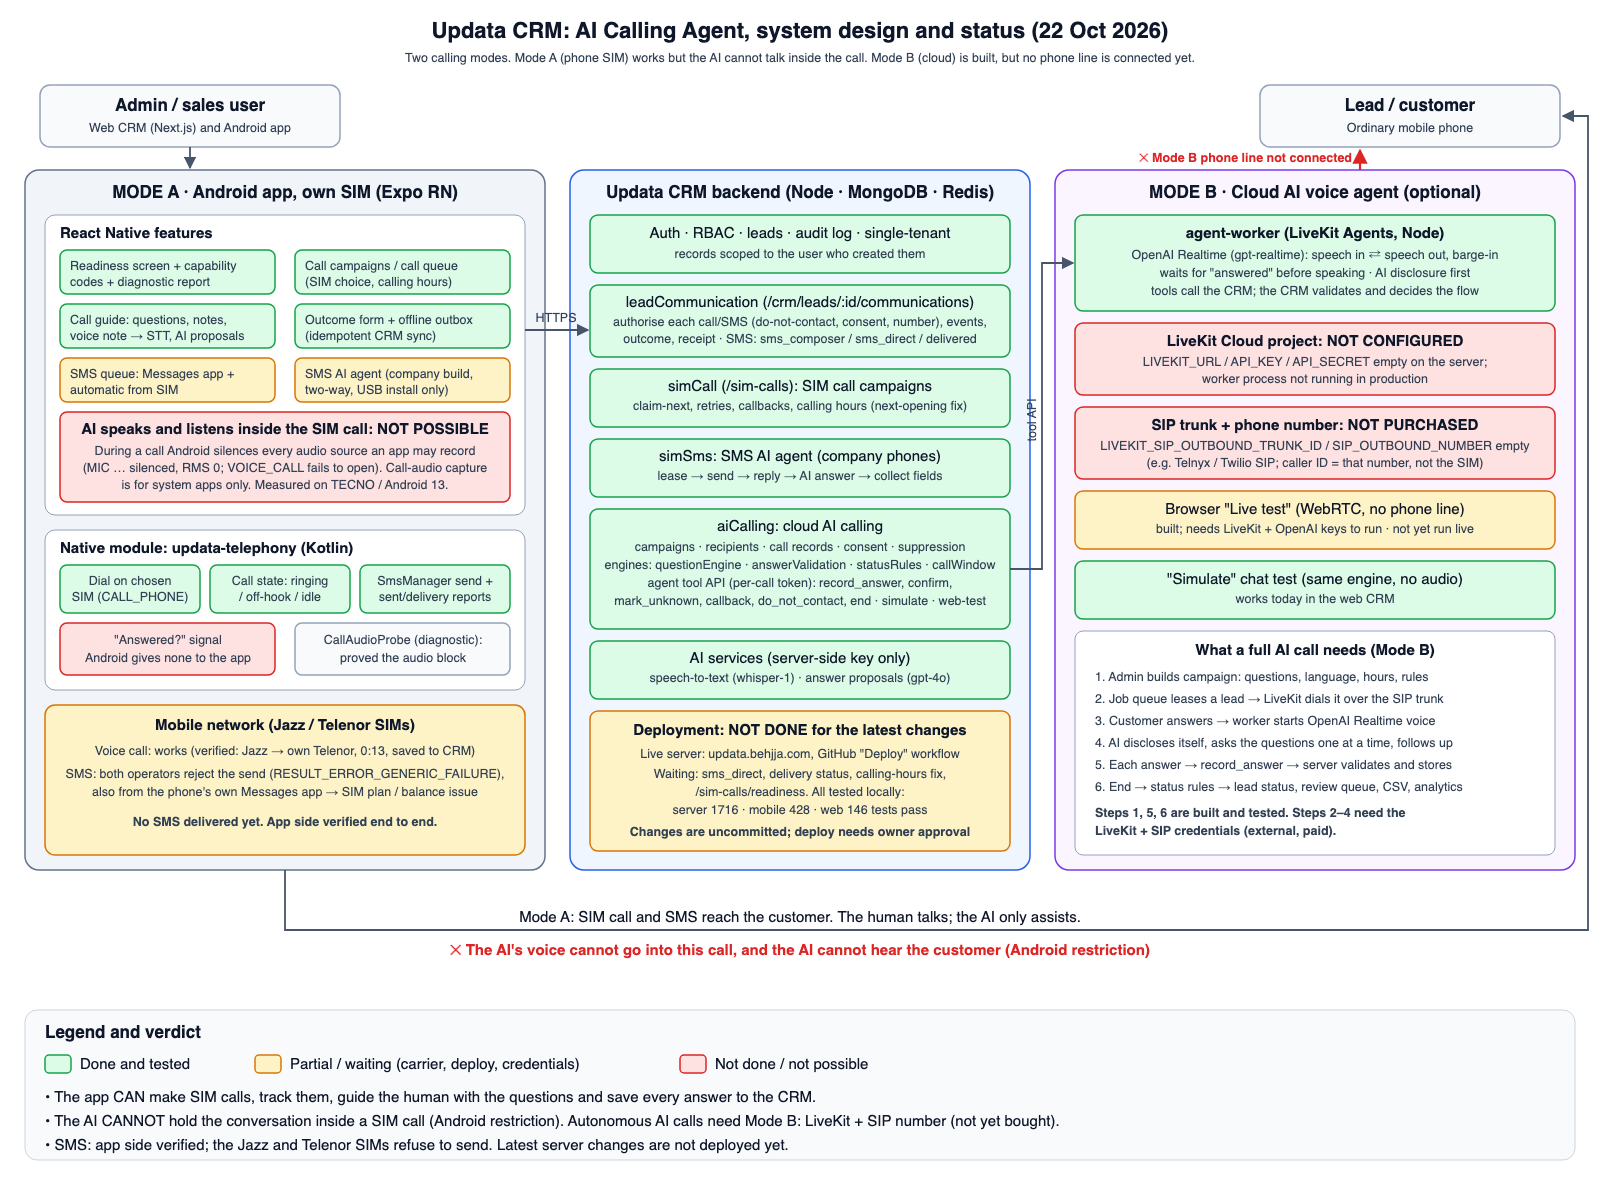
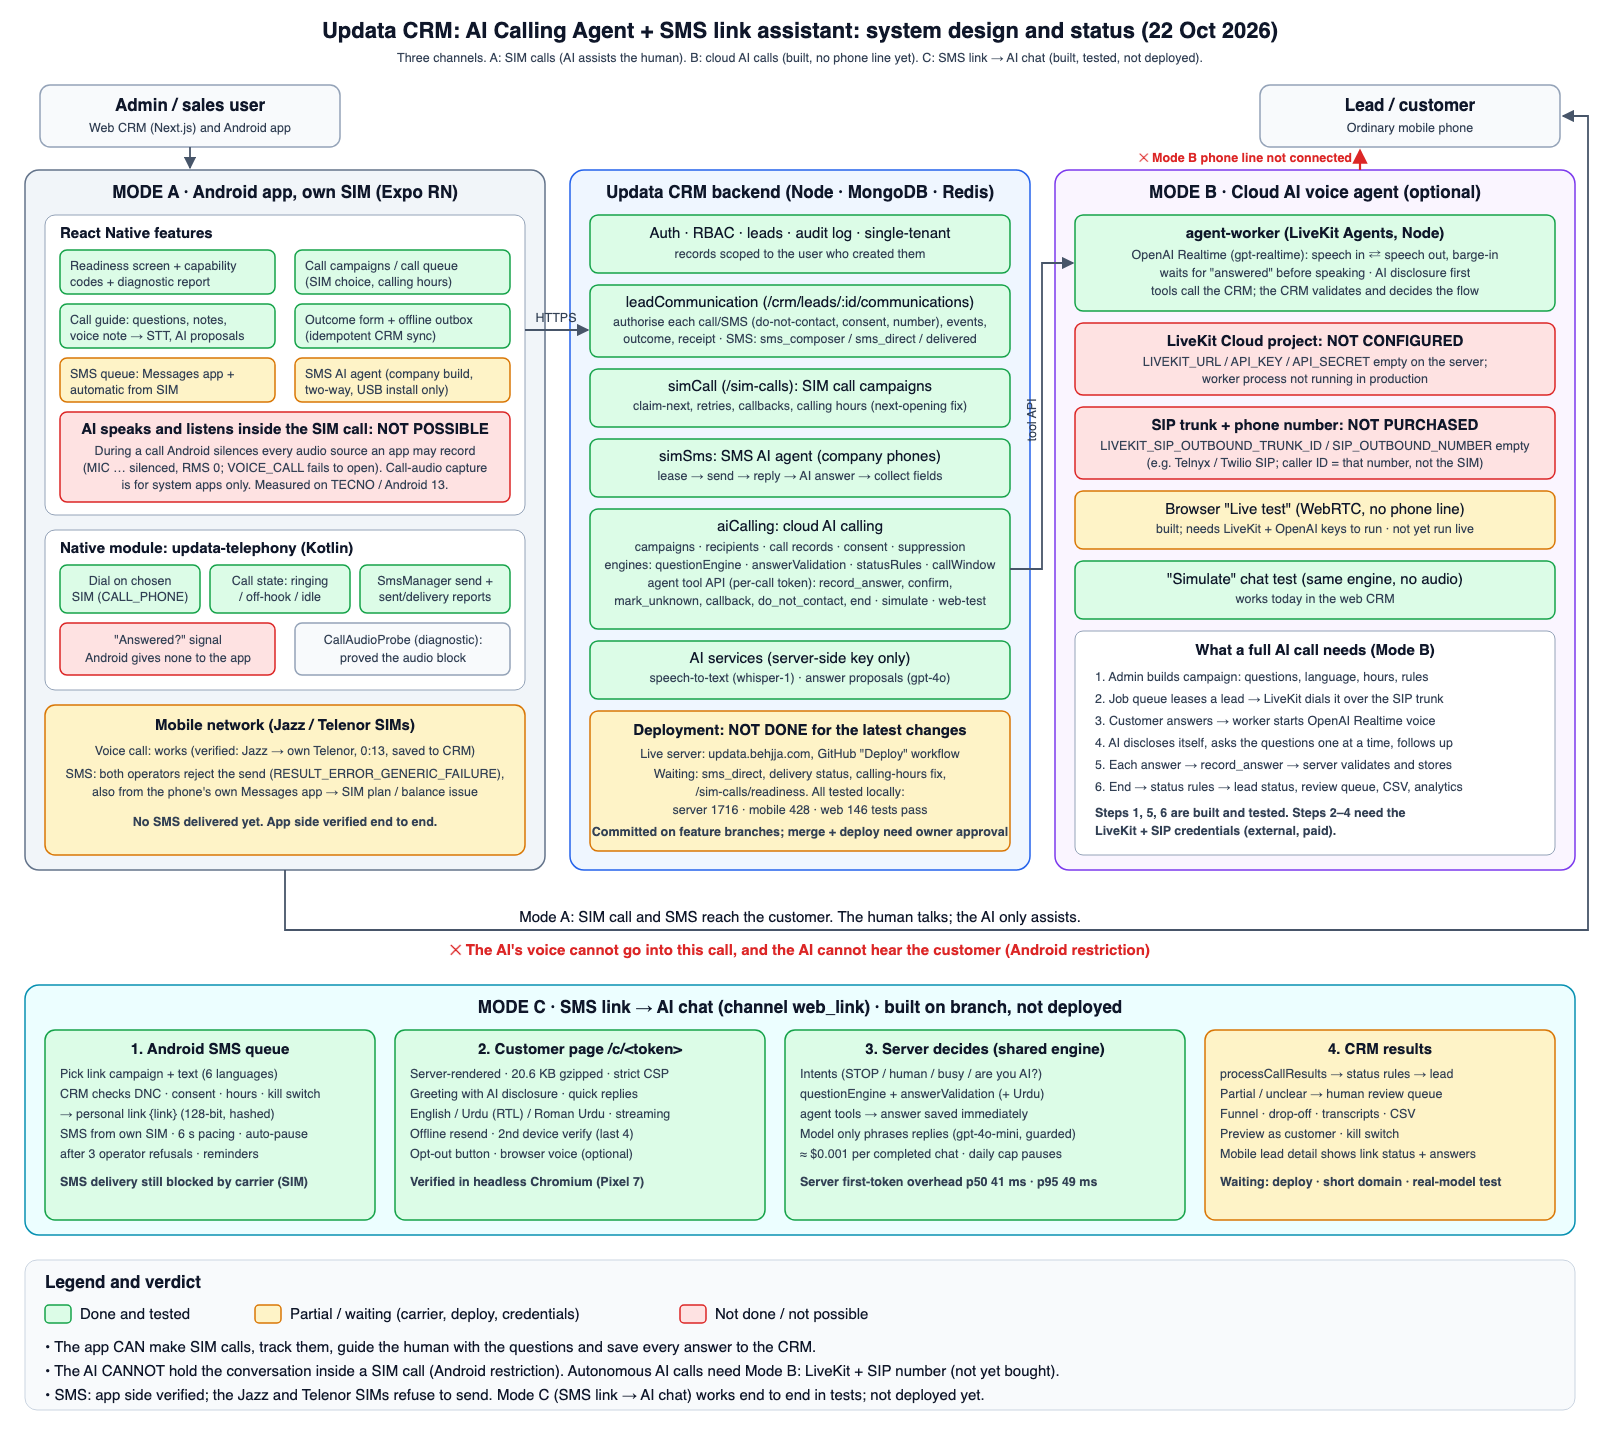
Docs: SMS link assistant guide, updated status report and system design

diff --git a/docs/SMS-LINK-ASSISTANT.md b/docs/SMS-LINK-ASSISTANT.md
@@ -1,0 +1,253 @@
+# SMS Link → AI Assistant
+
+**Audience:** developers and operators of Updata CRM.
+**Status (22 Oct 2026):** built and tested on branch `feature/sms-link-assistant`; **not deployed**. See §9 for what still needs the owner.
+
+A CRM user texts each lead a **personal, secure link** from their own phone (the mobile SMS queue, automatic SIM sending or the Messages app). The link opens a fast, mobile-first chat page. An **AI assistant**:
+- says in its first message that it is an AI;
+- asks the campaign's questions one at a time;
+- answers simple questions from the campaign FAQ;
+- saves every validated answer to the CRM immediately.
+
+It is the **`web_link` channel of the existing AI calling campaigns**. It reuses the same parts as AI calls:
+- questionnaire, question engine, answer validation and status rules;
+- review queue, consent and suppression checks;
+- CSV export and lead outcome handling.
+
+There is no second question or answer system.
+
+![System design](ai-calling-system-design.png)
+
+---
+
+## 1. How it works
+
+```mermaid
+sequenceDiagram
+  participant U as CRM user (Android app)
+  participant CRM as CRM API
+  participant L as Lead's phone
+  participant P as Customer page /c/<token>
+  U->>CRM: authorise SMS (leadCommunication, linkCampaignId)
+  CRM->>CRM: do-not-contact · consent · suppression · sending hours · kill switch
+  CRM-->>U: personal link (token derived from the SMS operation id)
+  U->>L: SMS from own SIM: "Hi Ali, … {link}"
+  U->>CRM: sent / delivered (funnel)
+  L->>P: tap link → server-rendered page, greeting already in the HTML
+  P->>CRM: open (device cookie registered)
+  loop each customer message
+    P->>CRM: message (clientMessageId)
+    CRM->>CRM: deterministic intents → question engine → validator → tools (answer saved)
+    CRM-->>P: reply streamed (NDJSON: token… / replace / done)
+  end
+  CRM->>CRM: submit → processCallResults → status rules → lead status / review / follow-up
+```
+
+### Who decides what
+
+| Decision | Made by | Never by |
+|---|---|---|
+| Opt-out, "talk to a human", "are you human?", "I'm busy" | Deterministic keyword intents (English, Urdu, Roman Urdu), `engine/intents.js` | The model |
+| Which question is next, re-asks, read-back, finish | `aiCalling/engine/questionEngine.js` | The model |
+| Whether an answer is valid (type, format, allowed values) | `aiCalling/engine/answerValidation.js` (Urdu yes/no and "pata nahi" added) | The model. A model may *propose* a value for an unclear reply; it is re-validated, as for SMS replies (`simSms/engine/replyInterpreter.js`) |
+| Lead status, review queue, callbacks, do-not-contact | `processCallResults` + status rules (as for calls). Incomplete sessions → review, never auto-qualified | The model |
+| Wording of ordinary turns (ask, clarify, FAQ answer) | A low-cost text model, **streamed**. Output-checked: no human claims, no instruction leaks, no status claims. Otherwise a fixed text is used | n/a |
+| Wording of safety turns (opt-out, hand-off, read-back, summary, thanks) | Fixed texts (`engine/assistantCopy.js`) | The model |
+
+The model never receives tools or data it could change. The customer's text is wrapped as untrusted data.
+
+### Conversation flow on the page
+
+1. **Greeting** (pre-generated, instant). It contains the lead's name, the company, the reason for contact, "I'm *Ayesha*, an AI assistant from *Company*", the expected time ("about 3 minutes"), and the buttons *Yes, let's start* / *Not now* / *Don't contact me*.
+2. **Questions one at a time:**
+   - quick-reply buttons for choice and yes/no questions;
+   - the matching keyboard for numbers, phone and email;
+   - native pickers for dates and times;
+   - a progress indicator ("2 of 6").
+3. **Unclear answer:** one gentle re-ask, then the answer is recorded as *unknown* (never invented).
+4. **Critical fields** (`confirmCritical`) are read back for confirmation.
+5. **Customer questions** are answered **only from the FAQ**. Anything else is passed to the team as a notification and an open question on the session.
+6. **Summary:** the lead can change any answer, then confirms. The session becomes read-only, and the results are processed into the CRM.
+7. **Special cases:**
+   - "I'm busy" → asks when to call → callback request.
+   - "talk to a human" → follow-up notification, an optional note, an honest time frame.
+   - "STOP" / "band karo" / "رابطہ نہ کریں" → do-not-contact (CRM lead status, call **and** SMS suppression) and the link closes.
+
+---
+
+## 2. Secure personal links
+
+| Property | Implementation |
+|---|---|
+| Format | `https://<LINK_ASSISTANT_BASE_URL>/c/<token>`, token = 22 base62 characters (128 bits), no PII |
+| Storage | Only an HMAC of the token (`LINK_ASSISTANT_TOKEN_SECRET`) is stored. The token for an SMS is HMAC-derived from the SMS operation id, so a retried authorisation returns the **same** link |
+| Lifetime | `linkConfig.expiryDays` (default 7). Revocable from the CRM. Stops after opt-out |
+| One conversation per lead and campaign | A reminder or resend adds a new token to the same open session; the lead continues where they left off |
+| Devices | The first device to open the link is registered (httpOnly cookie, hash stored). A **second device** must enter the last 4 digits of the phone number before any saved answer is shown (5 tries, then locked for 1 h) |
+| Link previews | WhatsApp, Facebook, Telegram and other preview bots get a neutral page and never count as an open |
+| Funnel | `link_issued → sms_sent → delivered → link_opened → chat_started → completed / abandoned / opted_out / expired` |
+| Rate limits | Per IP (page), per link + IP (messages), and a strict limit on **unknown links** that counts misses only |
+
+---
+
+## 3. SMS sending (mobile)
+
+In "Text leads from your phone":
+- choose a **link campaign** (optional);
+- pick a ready-made text (English, Urdu, Roman Urdu, French, German, Arabic), or use the insert chips `{name} {city} {company} {link}`;
+- see a preview with a real-length link, plus the character, encoding and segment count.
+
+Warnings appear if `{link}` is missing. A text with `{link}` but no campaign cannot be sent, and the app never sends a raw `{link}`.
+
+The CRM issues the link during the SMS authorisation, after the do-not-contact, consent and suppression checks plus **the campaign's sending hours and the kill switch**. If it can't, nothing is sent.
+
+All existing protections apply:
+- 1 SMS every 6 s per SIM, and a Stop button;
+- delivery reports to the CRM;
+- duplicate-send protection;
+- the 12-hour skip;
+- **automatic pause after 3 operator refusals in a row** ("check the SMS package or balance, or choose the other SIM").
+
+**Reminders:** the server lists leads who are due a reminder (`GET /link-assistant/reminders/due`):
+- only inside sending hours;
+- at most `max`;
+- never after opt-out or completion.
+
+The Call Agent home shows "Send N reminder(s)", which opens the SMS queue in reminder mode. A reminder reuses the same conversation.
+
+**Fallback to a human:** after the last reminder plus `afterHours`, the sweep adds the lead to the chosen **SIM call campaign** (`simCall.addLeads`), where a person calls.
+
+**SMS length:** GSM texts (English, Roman Urdu, French, German) fit one SMS with the link. Urdu and Arabic are Unicode (70 characters per SMS), and a 128-bit link alone is 46–51 characters, so those texts take **2 SMS**. A short link domain helps but doesn't change this.
+
+---
+
+## 4. Customer page
+
+| Requirement | Result |
+|---|---|
+| Server-rendered first screen, greeting in HTML | ✅ greeting is in the HTML response |
+| Initial JS ≤ 150 KB gzipped | ✅ **20.6 KB** for HTML + CSS + JS (plain JS, no framework; fingerprinted, immutable, pre-gzipped) |
+| First reply token p50 ≤ 800 ms, p95 ≤ 1.5 s | Server overhead measured: **p50 41 ms, p95 49 ms** (stub model, n=24). Real-model latency: run `node scripts/linkAssistantLatency.mjs --confirm` (paid; owner approval) |
+| Streaming | NDJSON over `fetch` (token / replace / done), typing indicator |
+| Lost connection | The message is kept locally and resent with the same id until delivered; the server answers each id once |
+| Languages | English / Urdu (right-to-left) / Roman Urdu. Auto-detected from the first reply, switchable in one tap |
+| Accessibility and trust | ≥ 44 px tap targets, font-size toggle, screen-reader labels, company initial and name, "automated assistant" note, privacy/terms links (`LINK_ASSISTANT_PRIVACY_URL`, `…_TERMS_URL`), "I don't want to be contacted" |
+| Security | Strict CSP (`default-src 'none'`, self-only scripts and styles), no third-party scripts or trackers, `Referrer-Policy: no-referrer`, `noindex`, httpOnly SameSite cookie, `X-Requested-With` marker on every API call, `textContent` rendering only (no HTML from the server or customer) |
+| Voice: browser tier | Push-to-talk speech recognition + "read replies aloud" where the browser supports it. Shown only when the campaign enables voice; falls back to text |
+| Voice: premium tier (LiveKit + OpenAI Realtime) | **Not wired to the page yet.** The setting exists; the existing browser Live test covers the agent. Needs gate 3 (owner approval) and LiveKit keys |
+
+---
+
+## 5. Configuration
+
+### Campaign (`linkConfig` on an AI calling campaign with `channel: 'web_link'`)
+
+Edit these in the web CRM: **AI calling → New campaign → "SMS link → AI chat"**.
+
+| Field | Default | Meaning |
+|---|---|---|
+| `personaName`, `personaTone` | Ayesha, warm | Name and tone of the assistant (the AI disclosure is not optional) |
+| `reason` | "" | Why you are contacting them (first message) |
+| `languages`, `defaultLanguage` | en, ur, roman_ur / en | Offered languages |
+| `faq[]` | [] | The **only** facts the assistant may use to answer questions |
+| `smsTemplates` | null | Per-language overrides of the default SMS texts |
+| `expiryDays` | 7 | Link lifetime |
+| `reminders` | off, 24 h, max 1 | Reminder SMS for unfinished chats |
+| `fallbackToCall` | off | SIM call campaign for leads who never answer |
+| `limits.maxTurns`, `maxSessionMinutes`, `maxTokensPerTurn` | 40, 30, 220 | Per-conversation limits (then politely ended → review) |
+| `limits.dailySpendCap` | $2 | Model budget per campaign per UTC day. When reached, the campaign **pauses** (no new links), open chats continue with fixed texts, and the owner is notified |
+| `voiceTier` | off | off / browser / premium |
+| `transcriptRetentionDays` | 90 | Transcripts are purged after this |
+
+Sending hours = the campaign's `schedule.callWindow` / `daysOfWeek` / `timezone`.
+
+### Environment variables (server)
+
+| Variable | Default | Purpose |
+|---|---|---|
+| `LINK_ASSISTANT_BASE_URL` | `PUBLIC_API_BASE_URL` | Origin used in links (a short domain later, gate 2) |
+| `LINK_ASSISTANT_TOKEN_SECRET` | `JWT_SECRET` | HMAC key for tokens and devices (set a dedicated secret in production) |
+| `LINK_ASSISTANT_ENABLED` | true | `false` = hard kill switch from the environment |
+| `LINK_ASSISTANT_MODEL` | `gpt-4o-mini` | Low-cost text model (configurable; check current OpenAI models) |
+| `LINK_ASSISTANT_PRICE_INPUT_PER_1M` / `_OUTPUT_PER_1M` | 0.15 / 0.60 | USD prices used for cost tracking and the cap |
+| `LINK_ASSISTANT_COMPANY_NAME` | — | Fallback company name |
+| `LINK_ASSISTANT_PRIVACY_URL`, `LINK_ASSISTANT_TERMS_URL` | — | Footer links |
+| `OPENAI_API_KEY` | — | Without it, everything works with fixed texts (no model) |
+
+### Kill switch
+
+**Web CRM → AI calling → "Pause all (kill switch)"** (`ai-calling:admin`), or `LINK_ASSISTANT_ENABLED=false`. It stops all new links and AI turns immediately; open pages show a notice.
+
+---
+
+## 6. Cost per session (estimate)
+
+| Item | Cost |
+|---|---|
+| SMS | From the SIM's package (1 SMS; 2 for Urdu/Arabic) |
+| Model, per phrased turn | ≈ 480 prompt + 60 reply tokens ≈ **$0.00011** with gpt-4o-mini |
+| Model, per completed 6-question chat | ≈ 7 phrased turns + ≤ 1 classification ≈ **$0.001** (≈ PKR 0.3) |
+| Voice, browser tier | Free (the customer's browser) |
+| Hosting | The existing API server |
+
+Each session records its own token usage and cost (`usage.*`). The campaign analytics show "AI cost / completed".
+
+---
+
+## 7. API
+
+**CRM** (`/api/v1/link-assistant`, auth + `ai-calling:*`):
+- `GET settings`, `PUT settings/kill-switch` (admin);
+- `GET templates?campaignId`;
+- `GET sessions?campaignId&status&leadId`, `GET sessions/:id`, `POST sessions/:id/revoke`;
+- `GET campaigns/:id/analytics`, `GET campaigns/:id/export` (CSV), `POST campaigns/:id/preview` ("Preview as customer");
+- `GET reminders/due`, `GET leads/:leadId/sessions`.
+
+Campaigns themselves: `/api/v1/ai-calling/campaigns` with `channel: 'web_link'`.
+
+**SMS authorisation:** `POST /api/v1/crm/leads/:id/communications` with `linkCampaignId` (and `linkPurpose: reminder`) → `data.link.url`.
+
+**Public** (`/c`, token only):
+- `GET /c/:token` (page);
+- `GET /c/assets/*`;
+- `POST /c/:token/api/open | verify | language | message`;
+- `GET /c/:token/api/state`.
+
+**Metrics** (`/metrics`):
+- `updata_link_assistant_events_total{event}`;
+- `updata_link_assistant_turn_seconds{source}`;
+- `updata_link_assistant_model_cost_total`.
+
+**Jobs:** `link-assistant-sweep` every 10 min:
+- expiry;
+- abandoned after 24 h idle → partial → review;
+- transcript purge;
+- call fallback.
+
+---
+
+## 8. Tests
+
+| Suite | What |
+|---|---|
+| `server/tests/unit/linkAssistant.engine.test.js` (39) | Tokens; intents in 3 languages incl. false positives; Urdu validation; templates and GSM/Unicode segments; model output guard; prompt rules; scripted customers: happy path, Roman Urdu/Urdu, unclear → unknown, "are you human?", opt-out, busy → callback, human hand-off, FAQ, **prompt injection ×3**, edit before submit, not now |
+| `server/tests/unit/linkAssistant.api.test.js` (13) | HTTP end to end: authorise → link → open → chat → answers saved immediately → submit → lead qualified; streaming + cost + **daily cap pauses**; human-claim output replaced; opt-out → SMS suppression + link closed; **second device verify**; clientMessageId replay; expired/revoked/unknown/preview-bot; **kill switch**; sending hours; preview never touches the lead; CRM views + RBAC; abandoned → review; reminders |
+| `server/tests/unit/linkAssistant.browser.test.js` (5) | **Real headless Chromium, Pixel 7**: full flow, numeric keyboard, ≥44 px targets, offline → reconnect (no duplicate), Urdu RTL + opt-out button, **page-weight budget**, **first-token latency p50/p95** |
+| `mobile/src/features/linkAssistant/__tests__`, `communication/__tests__/contactFlows.test.ts` | `{link}` filled from the CRM; never sends a raw `{link}`; funnel stage; reminder grouping |
+| `client/src/modules/aiCalling/__tests__/link-assistant-panel.test.tsx` (3) | Funnel and per-question table, transcript + revoke, "Preview as customer" |
+
+---
+
+## 9. Not done / needs the owner
+
+| Item | Status | Next action |
+|---|---|---|
+| Deploy to the live server | **Waiting (gate 1)** | Review the PR, merge, run the "Deploy" workflow |
+| Short link domain | **Waiting (gate 2)** | Choose a domain; point it at the API; set `LINK_ASSISTANT_BASE_URL` |
+| Real-model latency numbers | **Not measured** (paid) | `node scripts/linkAssistantLatency.mjs --confirm` with your approval |
+| Premium voice tier on the page | **Not built** (gate 3) | Approve LiveKit + OpenAI Realtime; then wire the existing agent-worker to link sessions |
+| First real SMS batch | **Waiting (gate 4)** | Test on your own number first; the operator currently refuses SMS from both SIMs |
+| "STOP" sent as an **SMS reply** | **Partial** | The client app cannot read SMS (no RECEIVE_SMS). Opt-out works on the page and via the company build's SMS agent. A reply in the Messages app is seen by the user, not the CRM |
+| Invisible bot challenge | **Not built** | Only rate limits + "no JavaScript → no session" + preview-bot handling. A third-party challenge would add a tracker (excluded) |
+| "Share via WhatsApp" | **Not built** (optional flag) | — |
+| Language-model check of Urdu wording quality | **Not tested with a real model** | Review sample chats after enabling the model |

diff --git a/docs/AI-CALLING-AGENT-SYSTEM-DESIGN.md b/docs/AI-CALLING-AGENT-SYSTEM-DESIGN.md
@@ -1,4 +1,4 @@
-# Updata CRM: AI Calling Agent system design and status report
+# Updata CRM: AI Calling Agent + SMS link assistant: system design and status report
 
 **Date:** 22 October 2026
 **Scope:** Android app (SIM calling and SMS), Updata CRM backend, web CRM, and the optional cloud AI voice agent
@@ -163,6 +163,23 @@ sequenceDiagram
 **Not running:** steps that need LiveKit + SIP (dialing, live audio).
 
 ---
+
+### 3.5 Mode C: SMS link → AI chat (new, `web_link` channel)
+
+This is the practical way to get an **AI conversation without a phone line**:
+- The user texts each lead a personal link from their own SIM, using the SMS queue.
+- The lead chats with an AI assistant on a fast web page, which collects the campaign's answers.
+- The results flow into the CRM exactly like an AI call: status rules, review queue, lead status.
+
+Details, configuration and test evidence: [SMS-LINK-ASSISTANT.md](SMS-LINK-ASSISTANT.md).
+
+| Part | Status |
+|---|---|
+| Links issued during SMS authorisation (DNC, consent, sending hours, kill switch) | ✅ tested |
+| Customer page (20.6 KB, English/Urdu/Roman Urdu, streaming, offline resend, second-device check) | ✅ tested in headless Chromium |
+| Server-decided conversation (opt-out, human, busy, FAQ, unclear → unknown, injection-safe) | ✅ 39 scenario tests |
+| CRM: answers saved immediately, status rules, review, funnel, CSV, preview, kill switch, daily AI budget | ✅ 13 API tests + web panel tests |
+| Deploy, short domain, real-model latency, premium voice, first real SMS batch | ⏳ waiting for owner approval (gates 1–4) |
 
 ## 4. What is DONE (with evidence)
 
